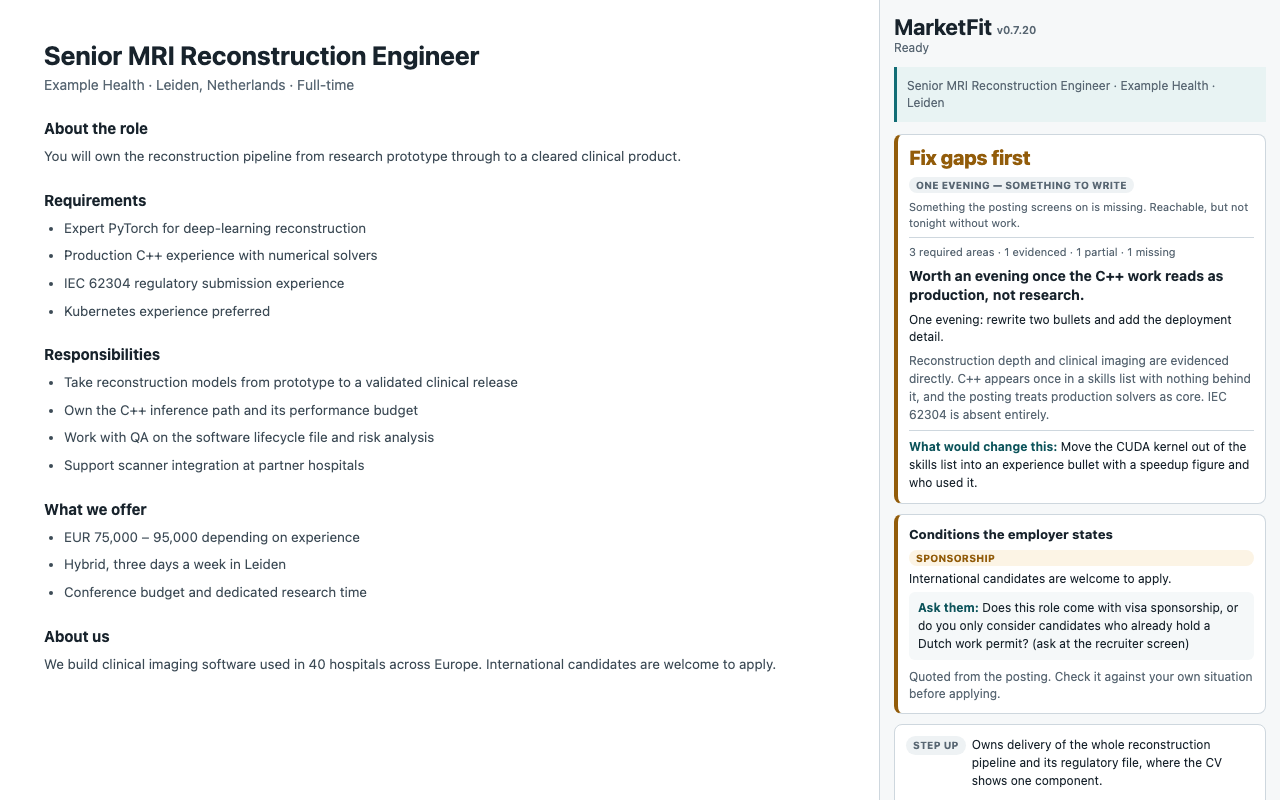
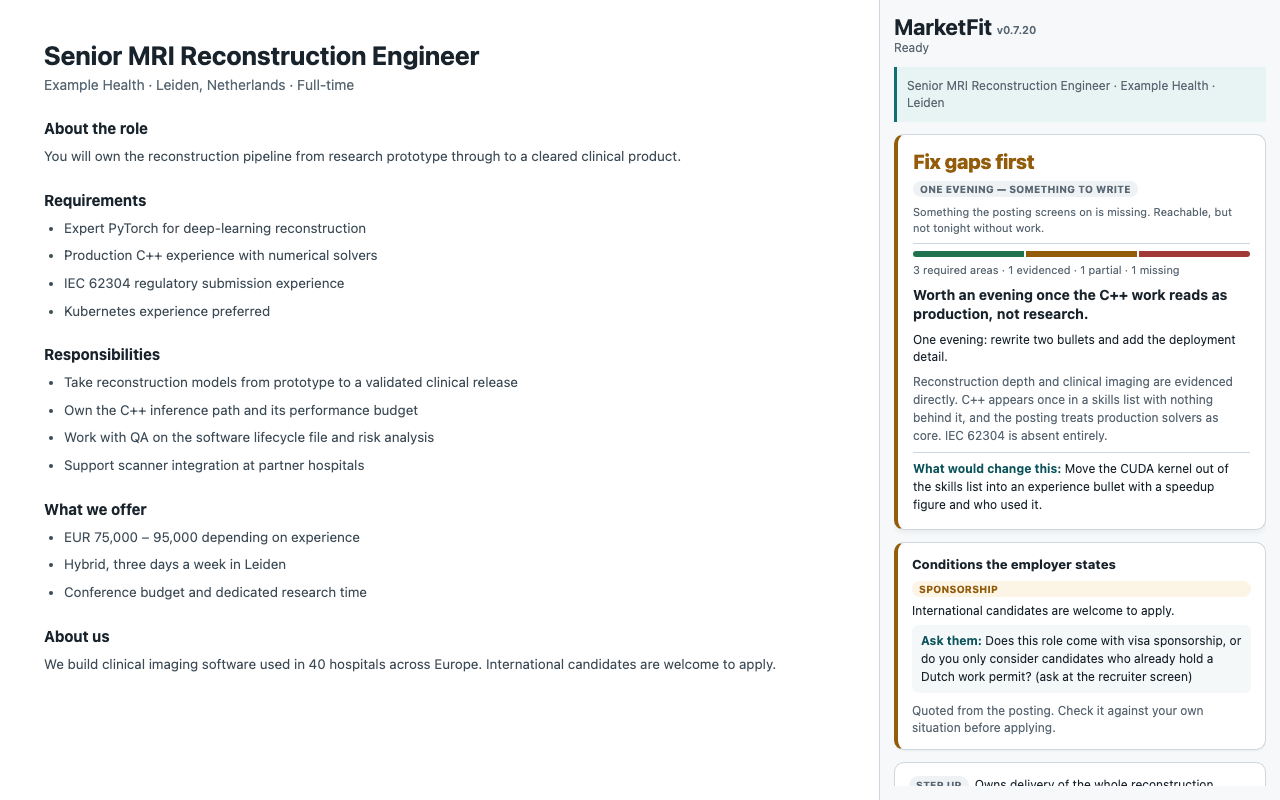
Draw the requirement coverage, and give the cards room to breathe
Takes the visual craft from the reference mockup — a bar instead of a sentence,
markers instead of bullets, more air between cards — without the numbers in it.

The mockup's 87% match score, 85% application ROI and 75% sponsorship likelihood
have no source. A single match percentage needs a weight for a partial match, and
any weight would be invented; a sponsorship likelihood is the visa prediction this
product refuses on purpose; and the salary range and market-demand charts would be
drawn rather than computed, since there is no market data here at all. Precision
that is not measured reads as authority, which is what makes it worse than prose.

What is real is the requirement count, so that is what gets drawn: three segments
sized by met, partial and missing, above the same line of numbers. The test asserts
no percentage appears anywhere in the rendered analysis.

Strengths and gaps now carry a check and a warning marker. Two columns would read
better but do not fit 390px, and the marker does the same work in one column.

Store screenshots regenerated from the new design.

Changed region(s): [[0.6875, 0.1875, 1.0, 1.0]]

diff --git a/src/sidepanel/sidepanel.css b/src/sidepanel/sidepanel.css
@@ -32,7 +32,7 @@ h3 { font-size: 13px; letter-spacing: 0; }
 .help a { color: var(--accent-strong); }
 .warning-note { background: var(--soft-warn); border-radius: 6px; color: #6c4b16; font-weight: 600; padding: 6px 8px; }
 .notice { background: var(--soft-teal); border-left: 3px solid var(--accent); color: #21464b; font-size: 12px; line-height: 1.45; padding: 9px 10px; }
-.panel, .result-card { background: var(--panel); border: 1px solid var(--line); border-radius: 8px; }
+.panel, .result-card { background: var(--panel); border: 1px solid var(--line); border-radius: 10px; }
 .panel { padding: 12px; }
 details > summary { cursor: pointer; font-size: 14px; font-weight: 720; list-style: none; }
 details > summary::-webkit-details-marker { display: none; }
@@ -72,9 +72,12 @@ code { font-size: 11px; }
 
 
 /* Analysis output */
-.result { display: grid; gap: 10px; }
+.result { display: grid; gap: 12px; }
 .analysis-note { color: var(--muted); font-size: 11px; line-height: 1.45; }
-.result-card { display: grid; gap: 8px; padding: 11px; }
+/* Cards carry the structure, so they get air and a soft lift rather than relying on
+   the border alone to separate one finding from the next. */
+.result-card { box-shadow: 0 1px 2px rgba(24, 35, 44, .05); display: grid; gap: 9px; padding: 13px 14px; }
+.result-card.sub { box-shadow: none; }
 /* A section heading set smaller and greyer than its own items read as a system
    label rather than as the thing introducing them. */
 .result-card h3 { color: var(--ink); font-size: 13px; font-weight: 750; letter-spacing: 0; }
@@ -86,12 +89,19 @@ code { font-size: 11px; }
 .overview p { font-size: 12px; line-height: 1.5; }
 
 .finding-list, .permission-list { display: grid; gap: 7px; margin: 0; padding-left: 18px; }
+.result-card.positive .finding-list, .result-card.negative .finding-list { list-style: none; padding-left: 20px; }
+.result-card.positive .finding-list li, .result-card.negative .finding-list li { position: relative; }
+.result-card.positive .finding-list li::before, .result-card.negative .finding-list li::before {
+  position: absolute; left: -20px; top: 0; font-weight: 700; font-size: 12px;
+}
+.result-card.positive .finding-list li::before { content: "\2713"; color: var(--good); }
+.result-card.negative .finding-list li::before { content: "\26A0"; color: var(--warn); }
 .finding-list li, .permission-list li { font-size: 12px; line-height: 1.45; }
 .item-head { align-items: baseline; display: flex; gap: 6px; justify-content: space-between; }
 .finding-list p { color: var(--muted); font-size: 12px; line-height: 1.45; margin-top: 3px; }
 
 .requirement-list, .action-list { display: grid; gap: 0; list-style: none; margin: 0; padding: 0; }
-.requirement, .action { border-top: 1px solid var(--line); display: grid; gap: 4px; padding: 9px 0 9px 9px; }
+.requirement, .action { border-top: 1px solid var(--line); display: grid; gap: 4px; padding: 10px 0 10px 10px; }
 .requirement:first-child, .action:first-child { border-top: 0; }
 .requirement { border-left: 3px solid transparent; }
 .requirement.tone-ok { border-left-color: var(--good); }
@@ -122,7 +132,7 @@ code { font-size: 11px; }
 @media (max-width: 360px) { .field-grid { grid-template-columns: 1fr; }.control-row { align-items: stretch; flex-direction: column; } }
 
 /* The verdict answers "should I spend an evening on this?" before any detail. */
-.verdict { border-left: 4px solid var(--line); gap: 6px; }
+.verdict { border-left: 4px solid var(--line); box-shadow: 0 2px 6px rgba(24, 35, 44, .07); gap: 7px; padding: 15px; }
 .verdict.tone-ok { border-left-color: var(--good); }
 .verdict.tone-go { border-left-color: var(--accent-strong); }
 .verdict.tone-warn { border-left-color: var(--warn); }
@@ -144,6 +154,13 @@ code { font-size: 11px; }
 .condition-match.tone-warn { color: var(--warn); }
 .condition-match.tone-ok { color: var(--good); }
 /* The tally behind the word, so the conclusion can be checked rather than trusted. */
+/* The count as a bar: the same three numbers, readable without being read. */
+.coverage { display: grid; gap: 5px; border-top: 1px solid var(--line); padding-top: 7px; }
+.coverage-bar { border-radius: 99px; display: flex; gap: 2px; height: 6px; overflow: hidden; }
+.coverage-fill.tone-ok { background: var(--good); }
+.coverage-fill.tone-warn { background: var(--warn); }
+.coverage-fill.tone-bad { background: var(--danger); }
+.coverage .verdict-score { border-top: 0; padding-top: 0; }
 .verdict-score { border-top: 1px solid var(--line); color: var(--muted); font-size: 11px; font-variant-numeric: tabular-lining-nums; line-height: 1.45; padding-top: 6px; }
 .verdict-headline { font-size: 14px; font-weight: 700; line-height: 1.4; }
 .verdict-effort { color: var(--ink); font-size: 12px; line-height: 1.45; }
@@ -157,7 +174,7 @@ code { font-size: 11px; }
 .tag-go { background: var(--soft-teal); color: var(--accent-strong); }
 .conditions { border-left: 4px solid var(--warn); }
 .condition-list { display: grid; gap: 8px; list-style: none; margin: 0; padding: 0; }
-.condition { display: grid; gap: 4px; }
+.condition { display: grid; gap: 5px; }
 .condition p { font-size: 12px; line-height: 1.5; }
 .condition-question { background: #f5f8f9; border-radius: 6px; font-size: 12px; line-height: 1.5; padding: 7px 9px; }
 .condition-question strong { color: var(--accent-strong); }

diff --git a/src/ui/analysisView.js b/src/ui/analysisView.js
@@ -31,8 +31,8 @@ export function renderAnalysisHtml(evidence, locale, candidate = {}) {
     renderStatedConditions(evidence.statedConditions, locale, candidate.workAuthorization),
     renderOverview(evidence.overview, locale),
     renderRequirements(evidence.requirements, locale),
-    renderCards(t(locale, "aiStrengths"), evidence.strengths, (item) => titleAndSummary(item.title, item.summary), locale),
-    renderCards(t(locale, "aiGaps"), evidence.gaps, (item) => gapItem(item, locale), locale),
+    renderCards(t(locale, "aiStrengths"), evidence.strengths, (item) => titleAndSummary(item.title, item.summary), locale, "positive"),
+    renderCards(t(locale, "aiGaps"), evidence.gaps, (item) => gapItem(item, locale), locale, "negative"),
     renderActions(evidence.suggestedActions, locale),
     renderGroup(t(locale, "sectionPrepare"), [
       renderCards(t(locale, "resumeTailoring"), evidence.resumeTailoring, (item) => titleAndSummary(item.target, item.recommendation), locale, "sub"),
@@ -115,12 +115,17 @@ function requirementScore(requirements, locale) {
   const required = (requirements || []).filter((item) => item.level === "required");
   if (!required.length) return "";
   const count = (states) => required.filter((item) => states.includes(item.match)).length;
-  return `<p class="verdict-score">${escapeHtml(format(locale, "verdictScore", {
-    total: required.length,
-    met: count(["strong"]),
-    partial: count(["partial"]),
-    missing: count(["gap", "no_evidence"])
-  }))}</p>`;
+  const met = count(["strong"]);
+  const partial = count(["partial"]);
+  const missing = count(["gap", "no_evidence"]);
+  // Segments, not a percentage. Collapsing these into one number needs a weight for
+  // a partial match, and any weight would be invented — the bar shows exactly what
+  // was counted and claims nothing that was not.
+  const segment = (value, tone) => (value ? `<span class="coverage-fill tone-${tone}" style="flex:${value}"></span>` : "");
+  return `<div class="coverage">
+    <div class="coverage-bar">${segment(met, "ok")}${segment(partial, "warn")}${segment(missing, "bad")}</div>
+    <p class="verdict-score">${escapeHtml(format(locale, "verdictScore", { total: required.length, met, partial, missing }))}</p>
+  </div>`;
 }
 
 function effortKey(effort) {

diff --git a/src/report/report.css b/src/report/report.css
@@ -108,6 +108,13 @@ h1, h2, h3, h4, p { margin: 0; }
 .condition-match.tone-bad { color: var(--danger); }
 .condition-match.tone-warn { color: var(--warn); }
 .condition-match.tone-ok { color: var(--good); }
+/* The count as a bar: the same three numbers, readable without being read. */
+.coverage { display: grid; gap: 6px; border-top: 1px solid var(--line); padding-top: 9px; }
+.coverage-bar { border-radius: 99px; display: flex; gap: 2px; height: 8px; overflow: hidden; }
+.coverage-fill.tone-ok { background: var(--good); }
+.coverage-fill.tone-warn { background: var(--warn); }
+.coverage-fill.tone-bad { background: var(--danger); }
+.coverage .verdict-score { border-top: 0; padding-top: 0; }
 .verdict-score { border-top: 1px solid var(--line); color: var(--muted); font-size: 13px; font-variant-numeric: tabular-lining-nums; line-height: 1.5; padding-top: 8px; }
 .verdict-headline { font-size: 18px; font-weight: 700; line-height: 1.4; }
 .verdict-effort { font-size: 14px; line-height: 1.55; }
